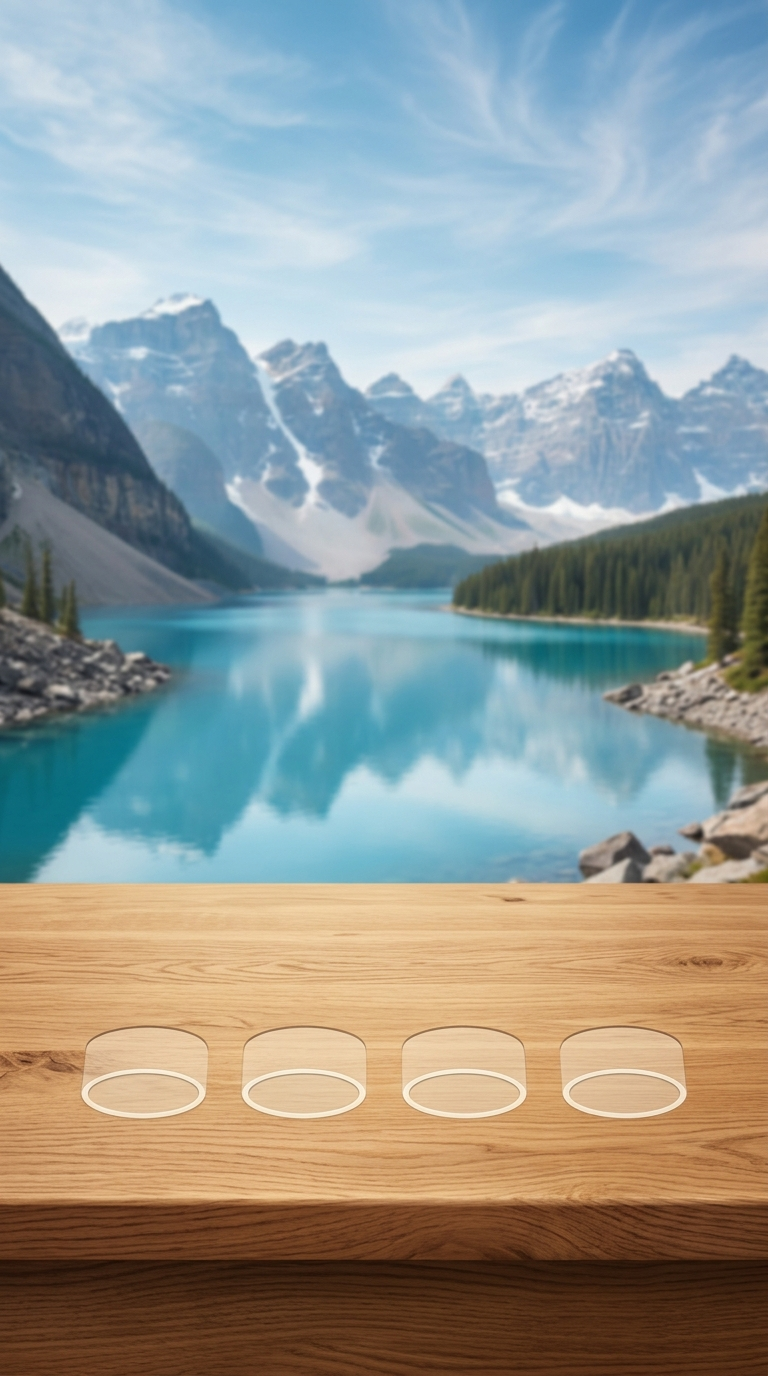
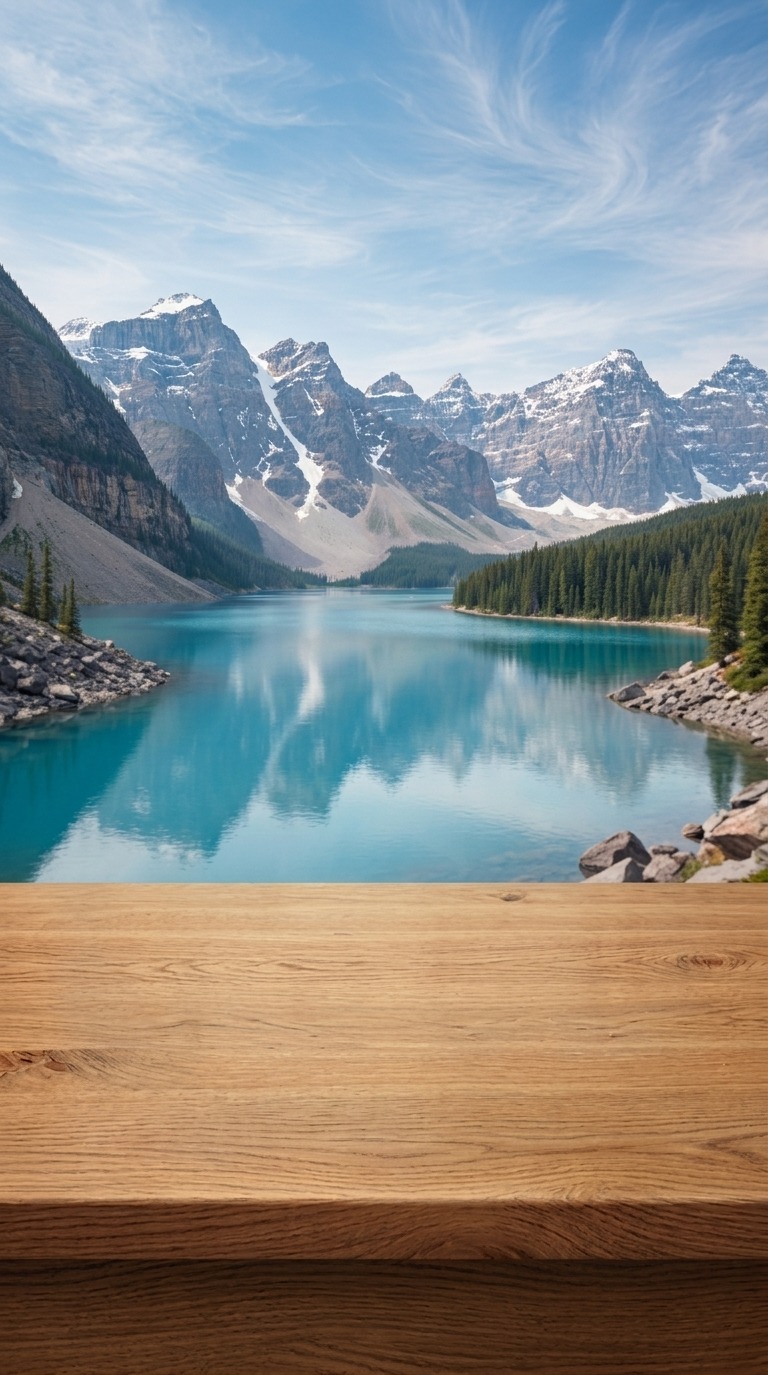
Place bottles at the table's front edge, not deep on the surface
Re-tuned the pedestal alignment target from ~76-81% down the photo
(where the old ghost bottle-ring marks sat) to ~65% down — the seam
where the lake meets the wood table's front edge. This leaves the
whole rest of the table surface (65-100%) free for the tray and the
map/undo buttons, which now sit comfortably on the table with room to
spare instead of nearly clipping off the bottom of the screen.

Also picks up: a newer version of the background photo without the
baked-in ghost bottle-ring marks (same composition/proportions, so the
0.65 target still lines up), and a small SceneBackground cleanup
(removed a highlight line pinned to a now-meaningless fixed position).

diff --git a/src/screens/Gameplay.tsx b/src/screens/Gameplay.tsx
@@ -81,14 +81,14 @@ function GameIcon({ name, color = '#f8fafc', size = 20 }: { name: 'pause' | 'bul
  * is won or the move budget runs out, and a pause overlay with restart /
  * level-select navigation.
  */
+
 /**
- * Fraction of screen height where the bottles' pedestal should sit, tuned to
- * the ghost bottle-base marks baked into assets/game-background.jpeg (the
- * photo's table only occupies its bottom ~35%, with the marks starting
- * around 76% down) so the rendered bottles look like they're actually
- * resting on the photographed table rather than floating over the lake.
+ * Fraction of screen height where the bottles' pedestal should sit: right at
+ * the front edge of the table in assets/game-background.jpeg, where the lake
+ * meets the wood (~65% down the photo). Bottles rest there; the rest of the
+ * table surface below is left free for the tray and the map/undo buttons.
  */
-const PEDESTAL_TARGET_Y_FRACTION = 0.74;
+const PEDESTAL_TARGET_Y_FRACTION = 0.65;
 
 /**
  * Distance (px) from the GameBoard's own top edge down to each bottle's

diff --git a/src/components/SceneBackground.tsx b/src/components/SceneBackground.tsx
@@ -30,7 +30,6 @@ export default function SceneBackground() {
         locations={[0.65, 1]}
         style={StyleSheet.absoluteFill}
       />
-      <View style={styles.tableHighlight} />
     </View>
   );
 }
@@ -40,13 +39,5 @@ const styles = StyleSheet.create({
     ...StyleSheet.absoluteFill,
     overflow: 'hidden',
     backgroundColor: '#8c5332',
-  },
-  tableHighlight: {
-    position: 'absolute',
-    top: '49%',
-    left: 0,
-    right: 0,
-    height: 2,
-    backgroundColor: 'rgba(255, 220, 157, 0.35)',
   },
 });
